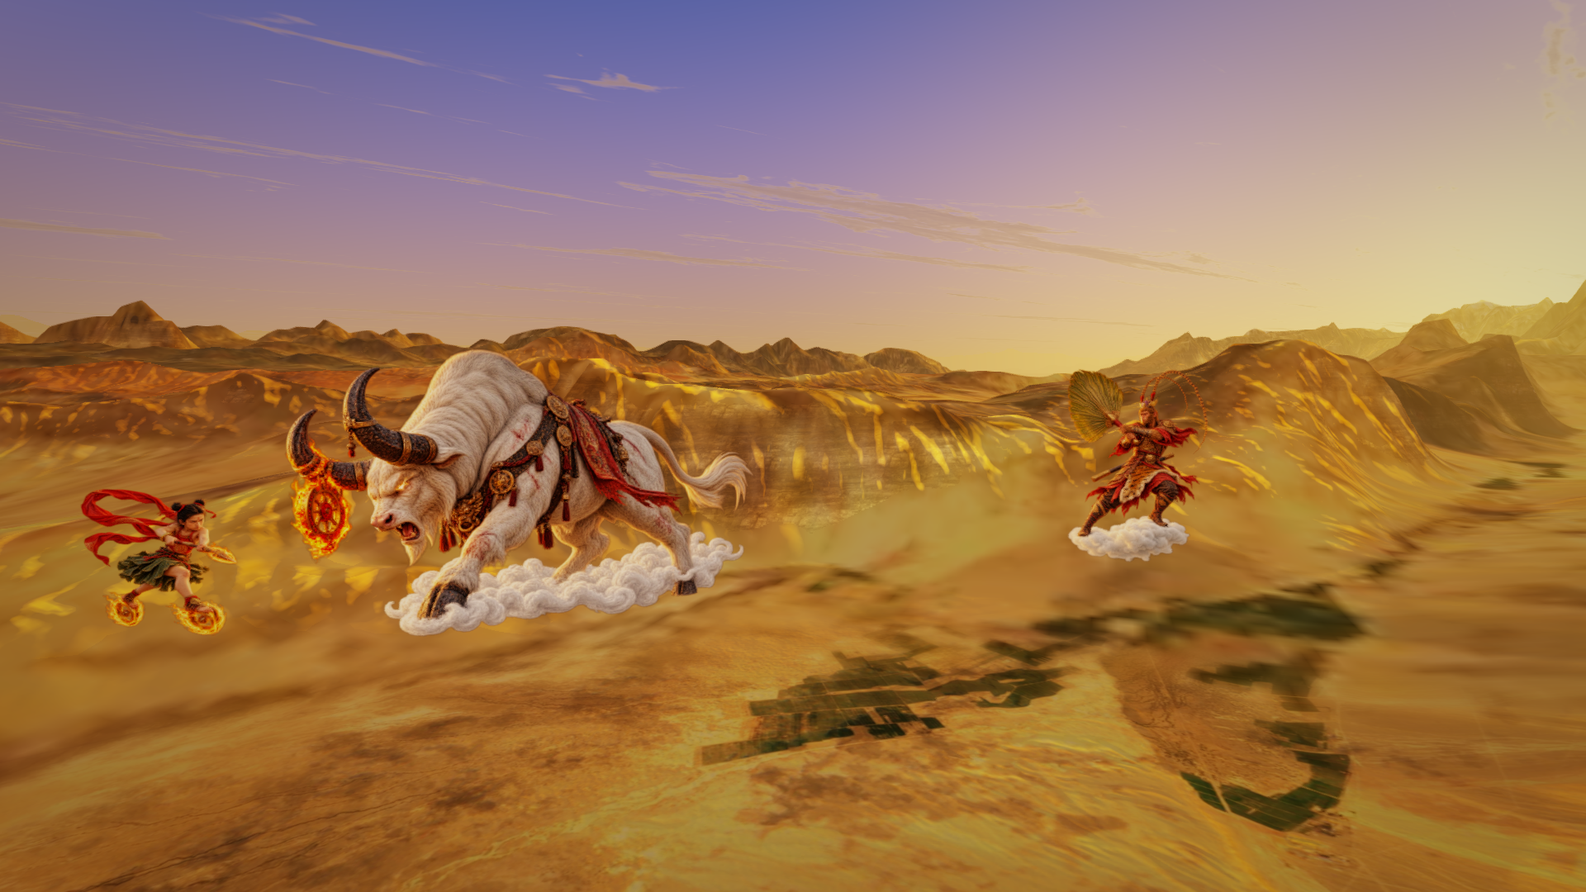
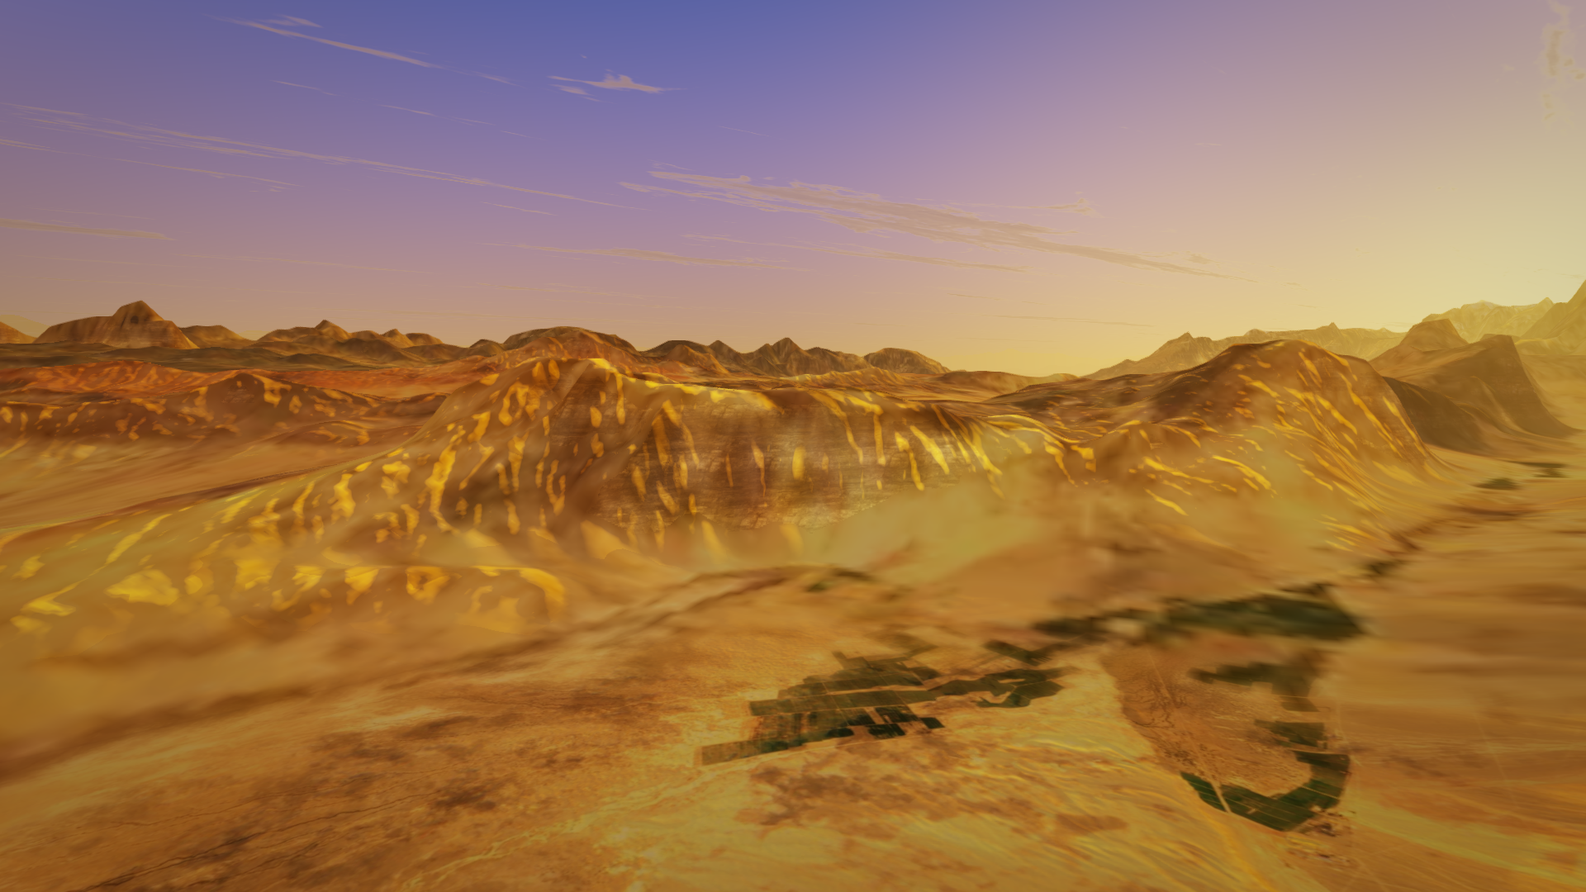
F146: the cast off at every visit, and the cover without it
The film's first viewers asked for the figures off by default. A first
visit already opened without them (D91). They came on from the start only
from a link with ?cast, or in a browser where the viewer had once turned
them on, because the switch remembered that choice. The cover, the
picture a shared link shows, also had a figure on every card (F131), so
the film looked as if it was about them before it opened.

The switch no longer remembers the choice. Every visit opens without the
cast. The lantern and J bring it on for that viewing, and only ?cast in
the address opens with it.

The cover's frames are now taken with the cast off, at the seconds F131
chose, which work without their figures. The exception is Huangshan: at
34 s the camera is now kept over the peaks (F143) and the card was all
cloud, so it is taken at 12 s, with the granite rising out of the cloud
sea ahead. The sheet and the postcards are drawn again, and the cards'
alt text now describes the ground.

Changed region(s): [[0.1562, 0.3667, 0.4688, 0.7333], [0.6562, 0.3972, 0.75, 0.6417], [0.0312, 0.55, 0.1562, 0.7333]]

diff --git a/tools/cover.html b/tools/cover.html
@@ -7,9 +7,8 @@
      postcards for a post. `npm run cover` draws both with a headless Chrome.
      The frame is the window: 1280 × 640, the size GitHub and Open Graph use.
      #sheet is the cover; #postcards the second image. Every card is the
-     cover's own frame, from `npm run cover -- frames`: the scene with the
-     cast on (D91), a figure of its sky in the picture. The film's stills
-     are drawn without it. -->
+     cover's own frame, from `npm run cover -- frames`: the scene as the
+     film opens, without the cast (F146). -->
 <style>
   :root {
     --ground: #0d1117; --ground-2: #131923;
@@ -68,12 +67,12 @@
 </head>
 <body>
   <div class="frame" id="postcards">
-    <div class="post" style="--pos:100% 50%;--x:38cqw;--y:12cqh;--r:-9deg"><div class="photo"><img src="../docs/cover/grassland-to-heaven-lake.png" alt="Heaven Lake: the magpie with the red fruit over the crater"></div><div class="cap"><span class="zh">天池</span><span class="en">Heaven Lake</span></div></div>
-    <div class="post" style="--pos:50% 50%;--x:52cqw;--y:30cqh;--r:6deg"><div class="photo"><img src="../docs/cover/loess.png" alt="Loess: the carp leaping over the Yellow River"></div><div class="cap"><span class="zh">黄土高原</span><span class="en">Loess</span></div></div>
-    <div class="post" style="--pos:30% 50%;--x:33cqw;--y:44cqh;--r:-4deg"><div class="photo"><img src="../docs/cover/huangshan.png" alt="Huangshan: Wukong on his cloud over the cloud sea"></div><div class="cap"><span class="zh">黄山</span><span class="en">Huangshan</span></div></div>
-    <div class="post" style="--pos:30% 50%;--x:66cqw;--y:8cqh;--r:11deg"><div class="photo"><img src="../docs/cover/below-the-sea.png" alt="Below the Sea: Nezha, the Bull Demon King and Wukong at the Flaming Mountains"></div><div class="cap"><span class="zh">吐鲁番</span><span class="en">Below the Sea</span></div></div>
-    <div class="post" style="--pos:100% 45%;--x:48cqw;--y:52cqh;--r:-2deg"><div class="photo"><img src="../docs/cover/the-wall.png" alt="The Wall: the pilgrims crossing over Everest"></div><div class="cap"><span class="zh">珠穆朗玛</span><span class="en">The Wall</span></div></div>
-    <div class="post" style="--pos:70% 50%;--x:68cqw;--y:40cqh;--r:5deg"><div class="photo"><img src="../docs/cover/karst.png" alt="Karst: the elephant of heaven over the towers"></div><div class="cap"><span class="zh">漓江</span><span class="en">Karst</span></div></div>
+    <div class="post" style="--pos:100% 50%;--x:38cqw;--y:12cqh;--r:-9deg"><div class="photo"><img src="../docs/cover/grassland-to-heaven-lake.png" alt="Heaven Lake: the crater and its lake"></div><div class="cap"><span class="zh">天池</span><span class="en">Heaven Lake</span></div></div>
+    <div class="post" style="--pos:50% 50%;--x:52cqw;--y:30cqh;--r:6deg"><div class="photo"><img src="../docs/cover/loess.png" alt="Loess: the Yellow River winding through the loess"></div><div class="cap"><span class="zh">黄土高原</span><span class="en">Loess</span></div></div>
+    <div class="post" style="--pos:30% 50%;--x:33cqw;--y:44cqh;--r:-4deg"><div class="photo"><img src="../docs/cover/huangshan.png" alt="Huangshan: granite peaks rising out of the cloud sea"></div><div class="cap"><span class="zh">黄山</span><span class="en">Huangshan</span></div></div>
+    <div class="post" style="--pos:30% 50%;--x:66cqw;--y:8cqh;--r:11deg"><div class="photo"><img src="../docs/cover/below-the-sea.png" alt="Below the Sea: the Flaming Mountains in the evening"></div><div class="cap"><span class="zh">吐鲁番</span><span class="en">Below the Sea</span></div></div>
+    <div class="post" style="--pos:100% 45%;--x:48cqw;--y:52cqh;--r:-2deg"><div class="photo"><img src="../docs/cover/the-wall.png" alt="The Wall: the glacier and the north face of Everest"></div><div class="cap"><span class="zh">珠穆朗玛</span><span class="en">The Wall</span></div></div>
+    <div class="post" style="--pos:70% 50%;--x:68cqw;--y:40cqh;--r:5deg"><div class="photo"><img src="../docs/cover/karst.png" alt="Karst: the towers along the Li"></div><div class="cap"><span class="zh">漓江</span><span class="en">Karst</span></div></div>
     <div class="stack">
       <div class="en">Nine Skies</div>
       <div class="line">Eighteen minutes over real ground.<br>Nine places you would not have put in China.</div>
@@ -82,15 +81,15 @@
   <div class="frame" id="sheet">
     <div class="sheet">
       <div class="grid">
-        <div class="card"><img src="../docs/cover/huangshan.png" alt="Huangshan: Wukong on his cloud over the cloud sea"><div class="cap"><span class="zh">黄山</span><span class="en">Huangshan</span></div></div>
-        <div class="card"><img src="../docs/cover/three-gorges.png" alt="The Three Gorges: the White Dragon in the gorge"><div class="cap"><span class="zh">三峡</span><span class="en">The Three Gorges</span></div></div>
-        <div class="card"><img src="../docs/cover/karst.png" alt="Karst: the elephant of heaven over the towers"><div class="cap"><span class="zh">漓江</span><span class="en">Karst</span></div></div>
-        <div class="card"><img src="../docs/cover/first-bend.png" alt="The First Bend: the tiger over Tiger Leaping Gorge"><div class="cap"><span class="zh">长江第一湾</span><span class="en">The First Bend</span></div></div>
-        <div class="card"><img src="../docs/cover/loess.png" alt="Loess: the carp leaping over the Yellow River"><div class="cap"><span class="zh">黄土高原</span><span class="en">Loess</span></div></div>
-        <div class="card"><img src="../docs/cover/grassland-to-heaven-lake.png" alt="Heaven Lake: the magpie with the red fruit over the crater"><div class="cap"><span class="zh">天池</span><span class="en">Heaven Lake</span></div></div>
-        <div class="card"><img src="../docs/cover/below-the-sea.png" alt="Below the Sea: Nezha, the Bull Demon King and Wukong at the Flaming Mountains"><div class="cap"><span class="zh">吐鲁番</span><span class="en">Below the Sea</span></div></div>
-        <div class="card"><img src="../docs/cover/the-roof.png" alt="The Roof: the old turtle of the Tongtian over the plateau"><div class="cap"><span class="zh">青藏高原</span><span class="en">The Roof</span></div></div>
-        <div class="card"><img src="../docs/cover/the-wall.png" alt="The Wall: the pilgrims crossing over Everest"><div class="cap"><span class="zh">珠穆朗玛</span><span class="en">The Wall</span></div></div>
+        <div class="card"><img src="../docs/cover/huangshan.png" alt="Huangshan: granite peaks rising out of the cloud sea"><div class="cap"><span class="zh">黄山</span><span class="en">Huangshan</span></div></div>
+        <div class="card"><img src="../docs/cover/three-gorges.png" alt="The Three Gorges: down the gorge to the river under its mist"><div class="cap"><span class="zh">三峡</span><span class="en">The Three Gorges</span></div></div>
+        <div class="card"><img src="../docs/cover/karst.png" alt="Karst: the towers along the Li"><div class="cap"><span class="zh">漓江</span><span class="en">Karst</span></div></div>
+        <div class="card"><img src="../docs/cover/first-bend.png" alt="The First Bend: over the walls of Tiger Leaping Gorge"><div class="cap"><span class="zh">长江第一湾</span><span class="en">The First Bend</span></div></div>
+        <div class="card"><img src="../docs/cover/loess.png" alt="Loess: the Yellow River winding through the loess"><div class="cap"><span class="zh">黄土高原</span><span class="en">Loess</span></div></div>
+        <div class="card"><img src="../docs/cover/grassland-to-heaven-lake.png" alt="Heaven Lake: the crater and its lake"><div class="cap"><span class="zh">天池</span><span class="en">Heaven Lake</span></div></div>
+        <div class="card"><img src="../docs/cover/below-the-sea.png" alt="Below the Sea: the Flaming Mountains in the evening"><div class="cap"><span class="zh">吐鲁番</span><span class="en">Below the Sea</span></div></div>
+        <div class="card"><img src="../docs/cover/the-roof.png" alt="The Roof: the plateau, ranges to the horizon"><div class="cap"><span class="zh">青藏高原</span><span class="en">The Roof</span></div></div>
+        <div class="card"><img src="../docs/cover/the-wall.png" alt="The Wall: the glacier and the north face of Everest"><div class="cap"><span class="zh">珠穆朗玛</span><span class="en">The Wall</span></div></div>
       </div>
       <div class="spine">Nine Skies<small>eighteen minutes over real ground</small></div>
     </div>

diff --git a/tools/cover.ts b/tools/cover.ts
@@ -6,10 +6,9 @@
  * server.
  *
  * `npm run cover -- frames [scene[@seconds] ...]`: the cover's own frames,
- * one a card, from the running film (`npm run dev`) with the cast on (D91),
- * each where a figure of the scene's sky is in the picture (FRAMES), into
- * docs/cover/, then `npm run cover` again. The film's stills are drawn
- * without the cast, as signed off (D77), and are not touched.
+ * one a card, from the running film (`npm run dev`) with the cast off, as
+ * the film opens (F146), into docs/cover/, then `npm run cover` again. The
+ * film's stills (D77) are not touched.
  *
  * Chrome's own --screenshot writes the file and then, on this Mac, does not
  * always exit, so the file is what is waited for, and Chrome is stopped.
@@ -28,48 +27,34 @@ const sleep = (ms: number) => new Promise((r) => setTimeout(r, ms));
 /**
  * Where on its own rail the cover takes each scene: seconds of flight at the
  * authored speed, and the height over the ground where it is not the rail's
- * own. Each is a second with a figure of the scene's sky in the picture, so
- * the card shows the sky as well as the ground: nine figures, one a card.
- * Most are in the figure's line, when the director holds it where its cue
- * puts it (D92); where that spot is under the card's caption, a second of
- * its visit in the cover's viewing (CAST_SEED). `scene@seconds+metres` on
+ * own. The seconds were chosen for the cast's figures (F131) and kept where
+ * the ground holds the card without them (F146). `scene@seconds+metres` on
  * the command line tries another.
  */
 const FRAMES: Record<string, { at: number; aboveGroundM?: number }> = {
-  // Wukong on his cloud over the cloud sea, the peaks beside him. The
-  // film's still is at 20 s, 150 m over the southern peaks, where the
-  // granite's photograph shows its blocks on a card (F92).
-  huangshan: { at: 34 },
-  // The White Dragon of Eagle Grief Stream coming up the gorge. In his
-  // line (30 s) he is in the slot below the camera, under the caption.
+  // The granite rising out of the cloud sea, ahead of the camera. Later in
+  // the visit the camera is kept over the peaks (F143) and the card is
+  // cloud; the film's still is at 20 s.
+  huangshan: { at: 12 },
+  // Down the gorge to the river under its mist.
   "three-gorges": { at: 18 },
-  // The elephant of heaven that stayed to drink, over the towers and the Li.
+  // The towers along the Li, and the valley between them.
   karst: { at: 8 },
-  // The tiger over the gorge it is said to have jumped.
+  // Over the walls of Tiger Leaping Gorge.
   "first-bend": { at: 66 },
-  // The carp leaping for the Dragon Gate over the Yellow River, before its
-  // line (62 s), which holds it low on the right, under the caption.
+  // The Yellow River winding through the loess.
   loess: { at: 54 },
-  // The magpie with the red fruit over the crater and its lake. On the
-  // rail, 300 m up, the flank fills the picture until the magpie has gone;
-  // at 1,500 m, inside the scene's band, the lake is below it.
+  // The crater and its lake. On the rail, 300 m up, the flank fills the
+  // picture; at 1,500 m, inside the scene's band, the lake is below it.
   "grassland-to-heaven-lake": { at: 106, aboveGroundM: 1500 },
-  // The Bull Demon King at the Flaming Mountains, Nezha's fire wheel on his
-  // horn, Nezha in his way and Wukong after him (F130).
+  // The Flaming Mountains in the evening.
   "below-the-sea": { at: 46 },
-  // The old turtle of the Tongtian over the plateau.
+  // The plateau, ranges to the horizon.
   "the-roof": { at: 86 },
-  // The party crossing over the face to the Western Heaven, the film's end.
   // Over the glacier with the north face ahead and Nepal beyond it, drawn at
   // the Wall's own exaggeration of three (F97).
   "the-wall": { at: 72 },
 };
-/**
- * The viewing the frames are taken in (`?castseed=`, D92): where a figure
- * is between its lines, and whether one that comes by chance comes, is the
- * seed's, so the cover draws the same viewing every time it is taken.
- */
-const CAST_SEED = 1;
 /** Drawn at 1920 × 1080: a card is 666 pixels wide at twice the cover's size. */
 const FRAME_W = 1920;
 const FRAME_H = 1080;
@@ -175,33 +160,28 @@ async function drawFrames(wanted: string[]): Promise<void> {
       return m.result?.result?.value;
     };
     await send("Emulation.setDeviceMetricsOverride", { width: FRAME_W, height: FRAME_H, deviceScaleFactor: 1, mobile: false });
-    // The cast on, in the cover's own viewing; the profile is new, so no choice remembered in it says otherwise.
+    // The film as a visitor opens it: the ground and its sky, without the cast (F146).
     const url = new URL(URL_);
-    url.searchParams.set("cast", "");
-    url.searchParams.set("castseed", String(CAST_SEED));
+    url.searchParams.set("cast", "off");
     await send("Page.navigate", { url: url.href });
     let ready = false;
     for (let k = 0; k < 300 && !ready; k++) {
       await sleep(200);
-      ready = (await run("typeof window.__ns === 'object' && typeof window.__ns.hold === 'function' && !!window.__ns.cast").catch(() => false)) === true;
+      ready = (await run("typeof window.__ns === 'object' && typeof window.__ns.hold === 'function'").catch(() => false)) === true;
     }
-    if (!ready) throw new Error(`the film and its cast did not start at ${url.href}: is \`npm run dev\` running?`);
+    if (!ready) throw new Error(`the film did not start at ${url.href}: is \`npm run dev\` running?`);
     for (const t of takes) {
       await run(`__ns.hold(${t.i}, ${t.seconds})`);
       // The held camera is placed at this height over the ground every frame, within the scene's band.
       if (t.aboveGroundM !== null) await run(`__ns.pinned().aboveGroundM = ${t.aboveGroundM}`);
       const settled = await run("__ns.settled()");
-      // The figures' pictures go to the GPU one a frame (F123): thirty frames more, so every one on stage is drawn.
-      await run("new Promise((done) => { let n = 30; const f = () => (--n > 0 ? requestAnimationFrame(f) : done(true)); requestAnimationFrame(f); })");
-      const figures = (await run("__ns.cast.figures.filter((f) => f.group.visible).length")) as number;
       // Drawn and read in one task, so the frame read is the one just drawn.
       const data = (await run("(__ns.rig.render(), document.getElementById('view').toDataURL('image/png'))")) as string;
       const png = Buffer.from(data.slice(data.indexOf(",") + 1), "base64");
       const out = `docs/cover/${t.id}.png`;
       writeFileSync(out, png);
       const height = t.aboveGroundM === null ? "" : `, ${t.aboveGroundM} m up`;
-      const notes = [settled ? "" : "the ground had not settled in 45 s", figures ? "" : "no figure on stage"].filter(Boolean);
-      console.log(`${out}: ${t.seconds} s${height}, ${FRAME_W} × ${FRAME_H}, ${figures} figures on stage${notes.length ? `  (${notes.join("; ")})` : ""}`);
+      console.log(`${out}: ${t.seconds} s${height}, ${FRAME_W} × ${FRAME_H}${settled ? "" : "  (the ground had not settled in 45 s)"}`);
     }
     ws.close();
   });

diff --git a/app/src/cast.ts b/app/src/cast.ts
@@ -1,16 +1,15 @@
 /**
  * The cast's switch (D91): off unless the viewer asks, and nothing of it is
- * fetched until they do. Asked by the bar's button, the key J, `?cast` in
- * the address so a shared link carries it, or a choice remembered in this
- * browser. On, the layer's code arrives as its own chunk and the current
+ * fetched until they do. Asked by the bar's button, the key J, or `?cast` in
+ * the address so a shared link carries it. The choice lasts the viewing:
+ * every visit opens without the cast, as the film's first viewers asked
+ * (F146). On, the layer's code arrives as its own chunk and the current
  * scene's figures are built; off again, they are freed.
  *
  * The shell holds the layer through `current`, and calls it at the two
  * points the film has: a scene starting, and a frame after the look.
  */
 import type { CastLayer, CastLayerOptions } from "../../engine/src/cast/cast.js";
-
-const STORAGE_KEY = "nineskies.cast";
 
 export interface CastSwitchOptions {
   readonly button: HTMLButtonElement;
@@ -37,11 +36,10 @@ export function paintingsWanted(search: string): boolean {
   return new URLSearchParams(search).get("paint") !== "off";
 }
 
-/** The viewer's choice as the page opened: the address first, then this browser's memory. */
-export function wantedAtStart(search: string, stored: string | null): boolean {
+/** Whether the page opens with the cast: only when the address asks. */
+export function wantedAtStart(search: string): boolean {
   const params = new URLSearchParams(search);
-  if (params.has("cast")) return params.get("cast") !== "off";
-  return stored === "on";
+  return params.has("cast") && params.get("cast") !== "off";
 }
 
 export class CastSwitch {
@@ -54,13 +52,7 @@ export class CastSwitch {
   constructor(private readonly options: CastSwitchOptions) {
     options.button.hidden = !options.hasCast;
     options.button.addEventListener("click", () => this.toggle());
-    let stored: string | null = null;
-    try {
-      stored = localStorage.getItem(STORAGE_KEY);
-    } catch {
-      stored = null;
-    }
-    if (options.hasCast && wantedAtStart(location.search, stored)) void this.set(true);
+    if (options.hasCast && wantedAtStart(location.search)) void this.set(true);
     this.show();
   }
 
@@ -75,11 +67,6 @@ export class CastSwitch {
   async set(on: boolean): Promise<void> {
     if (on === this.wanted) return;
     this.wanted = on;
-    try {
-      localStorage.setItem(STORAGE_KEY, on ? "on" : "off");
-    } catch {
-      // A private window: the choice lasts the page.
-    }
     this.show();
     if (on) {
       if (this.loading) return;

diff --git a/test/cast/cast.test.ts b/test/cast/cast.test.ts
@@ -405,11 +405,11 @@ describe("the layer", () => {
 });
 
 describe("the switch", () => {
-  it("is off unless the address or this browser says otherwise", () => {
-    expect(wantedAtStart("", null)).toBe(false);
-    expect(wantedAtStart("", "off")).toBe(false);
-    expect(wantedAtStart("", "on")).toBe(true);
-    expect(wantedAtStart("?cast", null)).toBe(true);
-    expect(wantedAtStart("?cast=off", "on")).toBe(false);
+  it("is off unless the address asks (F146)", () => {
+    expect(wantedAtStart("")).toBe(false);
+    expect(wantedAtStart("?castseed=1")).toBe(false);
+    expect(wantedAtStart("?cast")).toBe(true);
+    expect(wantedAtStart("?cast=on")).toBe(true);
+    expect(wantedAtStart("?cast=off")).toBe(false);
   });
 });

diff --git a/README.md b/README.md
@@ -1,6 +1,6 @@
 # Nine Skies
 
-![The nine scenes as nine cards, each with a figure of its sky: Wukong over Huangshan's cloud sea, the White Dragon in the Three Gorges, the elephant of heaven over the karst, the tiger at the First Bend, the carp over the loess, the magpie at Heaven Lake, the Bull Demon King at Turpan, the old turtle on the plateau, the pilgrims crossing Everest](app/public/cover.png)
+![The nine scenes as nine cards: Huangshan's peaks over the cloud sea, the Three Gorges, the karst along the Li, the First Bend, the Yellow River through the loess, Heaven Lake in its crater, the Flaming Mountains at Turpan, the plateau, and Everest's north face](app/public/cover.png)
 
 Eighteen minutes over real ground: nine scenes of China, two minutes each,
 flown over open elevation data, from Huangshan's granite above the clouds
@@ -40,9 +40,9 @@ A chapter's name in the address starts the film there (`#karst`), and a
 scene whose ground has not arrived holds on its title card until it has.
 Phones play in landscape.
 
-The cast, the figures on the cover, is off until asked: `J` or the lantern
-on the bar brings it on, the browser remembers the choice, and `?cast` in
-the address carries it in a link.
+The cast, the figures from Chinese myth in the sky, is off until asked:
+`J` or the lantern on the bar brings it on for the viewing, and `?cast` in
+the address carries it in a link. Every visit opens without it.
 
 ## Running it
 
@@ -74,9 +74,8 @@ scene, `await __ns.settled()` waits for its ground to land,
 `npm run cover` draws the cover, the nine scenes as nine cards, from
 `tools/cover.html` with a headless Chrome: `app/public/cover.png`, and the
 postcards in `docs/cover-postcards.png`. Every card is the cover's own frame
-in `docs/cover/`, the scene with the cast on and one of its figures in the
-picture, taken again with `npm run cover -- frames` while the dev server
-runs; the stills are drawn without the cast.
+in `docs/cover/`, the scene as the film opens, without the cast, taken
+again with `npm run cover -- frames` while the dev server runs.
 `?frametime` shows the frame time by wall clock, for a phone, and
 `?without=fine,near,rock,relief` flies without those layers, to measure
 what each costs.

diff --git a/docs/findings.md b/docs/findings.md
@@ -5469,3 +5469,34 @@ speed test 1.50 MB/s; the site's own files from Vercel 0.30 MB/s).
 **Left.** Telbase's storage status still read 0 objects after the upload
 (its usage lags). Not played on a phone yet (stage 6's "done when"). The
 link is the telbase.ai one; no domain of its own.
+
+## F146 — The cast off at every visit, and the cover without it, 30 September 2026
+
+**Asked.** The film's first viewers, on the site: the figures should be
+off by default. They were already off for a first visit (D91): a fresh
+browser at https://nine-skies.telbase.ai opened with the switch up and
+none of the cast's code or paintings fetched. They came on from the start
+only by a link with `?cast`, or in a browser where the viewer had once
+brought them on, since the switch remembered the choice there
+(`nineskies.cast`). And the cover, the picture a shared link shows, had a
+figure on every card (F131), so the film looked like it was about them
+before it opened.
+
+**Built.** The switch no longer remembers: every visit opens without the
+cast, the lantern and J bring it on for that viewing, and only `?cast` in
+the address opens with it (`wantedAtStart` reads the address alone; a
+stored choice from before is ignored). The cover's frames are taken with
+the cast off (`npm run cover -- frames` opens `?cast=off`), at the seconds
+F131 chose, which hold without their figures, but for Huangshan: at 34 s
+the camera is kept over the peaks (F143) and the card was cloud, so it is
+taken at 12 s, the granite rising out of the cloud sea ahead. The sheet
+(`app/public/cover.png`) and the postcards drawn again; the cards' words
+say what ground they show.
+
+**Checked.** The switch's test: off with no address, on with `?cast` or
+`?cast=on`, off with `?cast=off`. The nine frames looked at on the sheet
+and the postcards.
+
+**Left.** Apps that showed a link already keep their old preview for a
+while (they cache it). The site's `og:image` is `./cover.png`, relative;
+some apps want a full address.

diff --git a/Nine Skies — Build Plan.md b/Nine Skies — Build Plan.md
@@ -122,6 +122,9 @@ Everything else in the repository served the version-1 game and goes.
   cast speaks in its own register, outside the film's forty lines (F105).
   Figures of living faiths are drawn without a body, by mount, seat,
   standard or the faith's own object (decided 27 September 2026, F107).
+  Every visit opens without the cast: the choice lasts the viewing and is
+  not remembered, and the cover shows the ground alone (decided 30
+  September 2026 on its first viewers' word, F146).
 - **D92** The cast moves on its own, and differently each viewing (decided
   27 September 2026, F113). A companion visits rather than rides beside
   the lens: it comes into the picture from off it, passes or pauses, and
